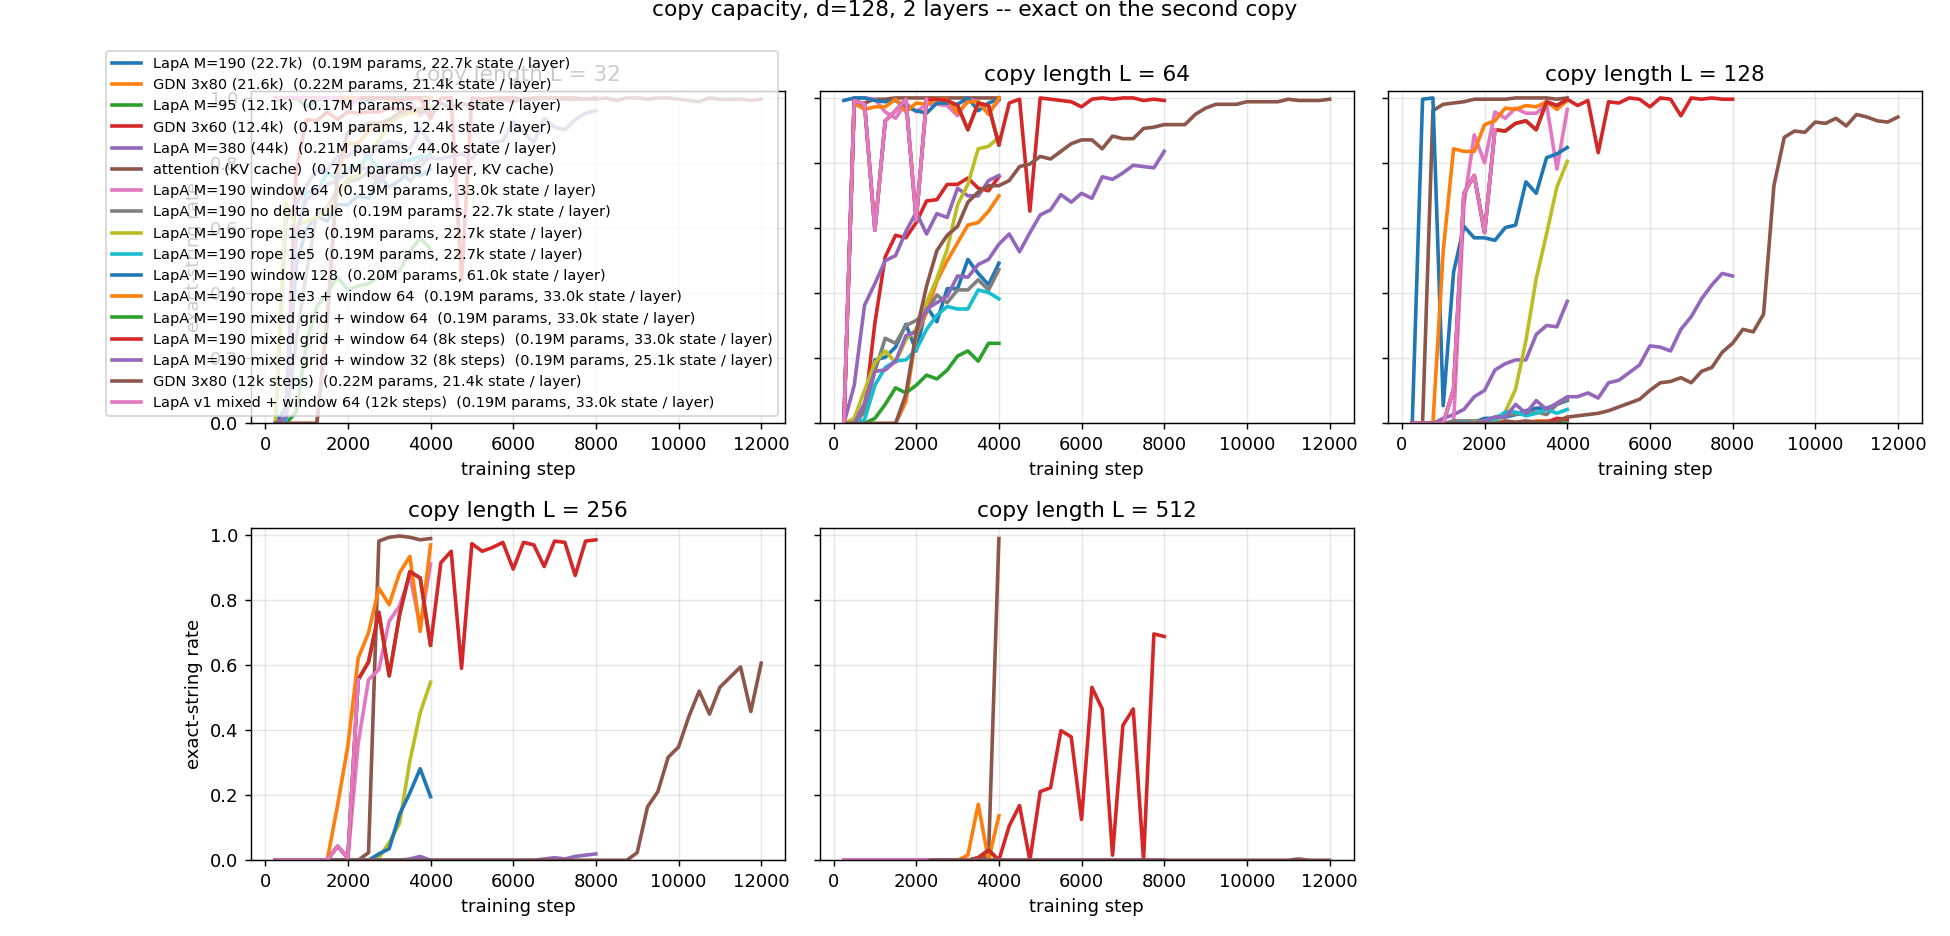
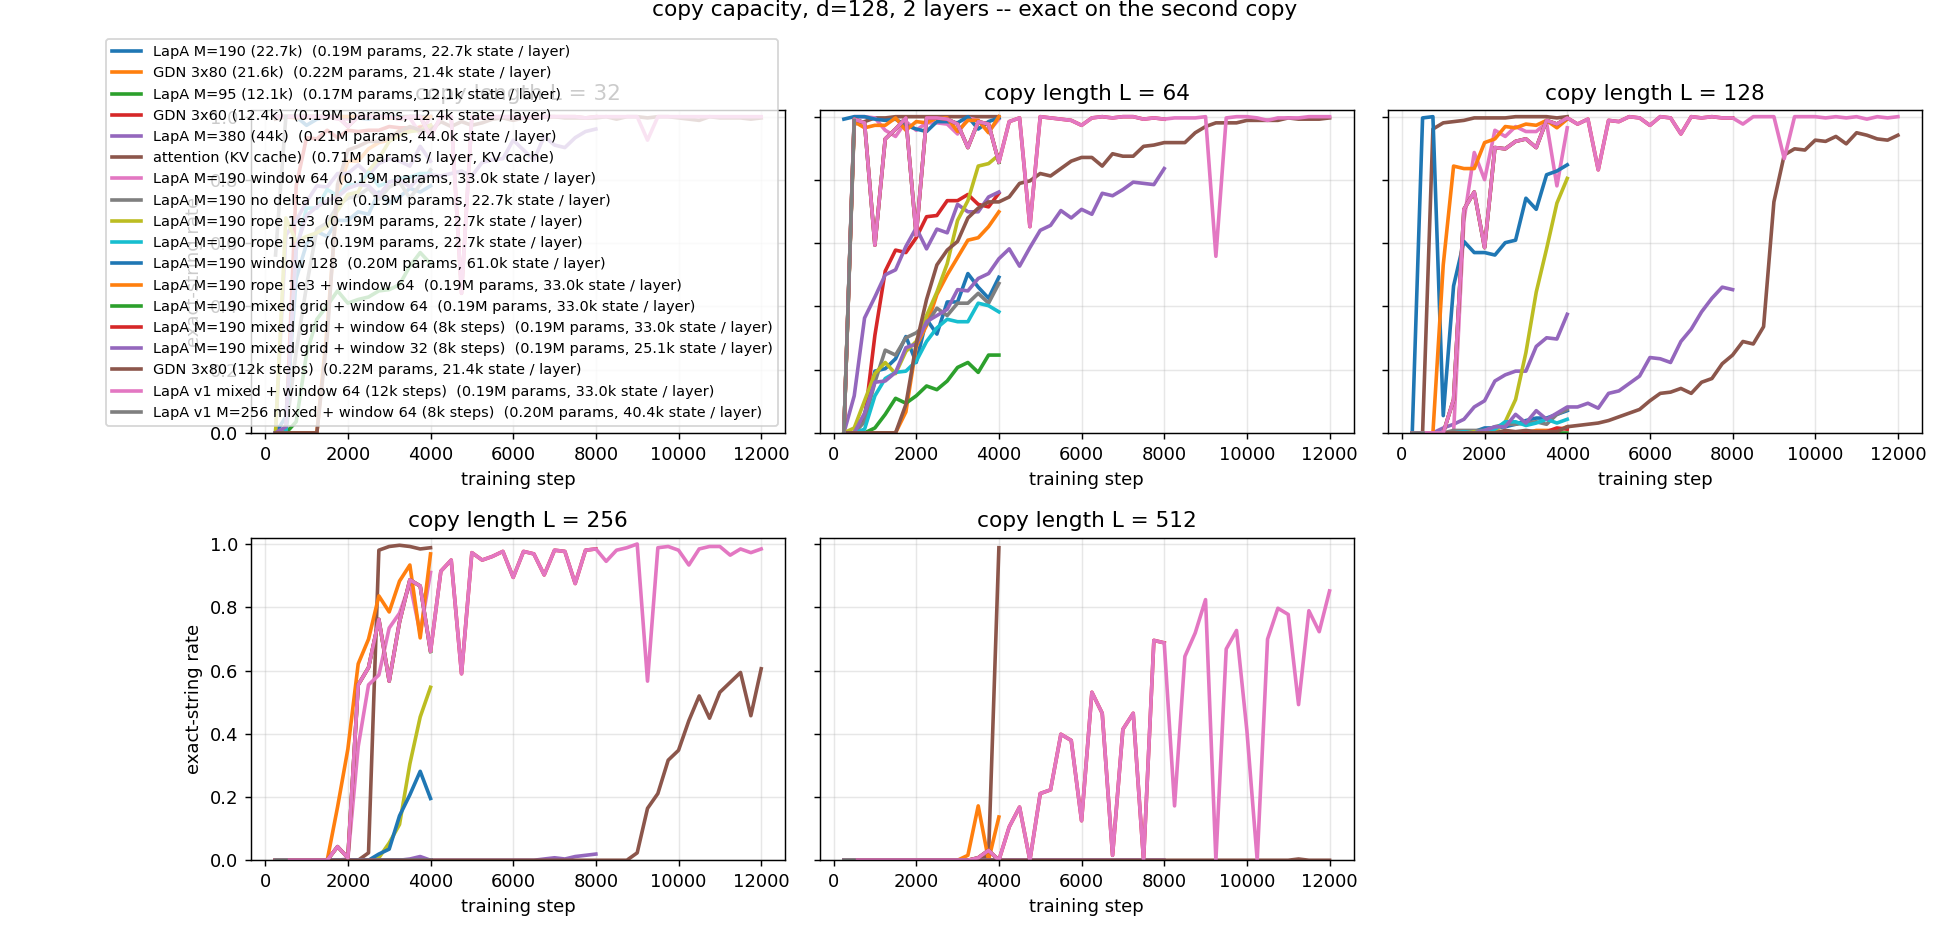
copy at 12k: LapA v1 0.85 exact @512 vs GDN 0

diff --git a/CATCHUP.md b/CATCHUP.md
@@ -600,6 +600,19 @@ still leads at 256 and 512. LapA v1 at 12k queued for the equal-budget row. Less
 Spark protocol: copy curves must be read at equal steps AND to saturation — GDN's
 saturation point is beyond 12k here.
 
+### Equal budget, 12k steps (2026-09-11, 14:50)
+
+| arm, 12000 steps | L32 | L64 | L128 | L256 | L512 |
+|---|---|---|---|---|---|
+| GDN 3×80 (21.4k state) | 1.00 | 1.00 | 0.94 | 0.61 | 0 (0.99 token) |
+| **LapA v1** (33k state) | 1.00 | 1.00 | **1.00** | **0.98** | **0.85** |
+
+Exact-string rates. At the same budget LapA v1 reproduces 85% of 512-token strings
+without error; GDN none. Both are at 0.99–1.00 per token at 512, so the difference is
+entirely in the tail of the per-token error distribution — the exact-string rate is the
+metric that separates a superposition memory with an exact window from a matrix memory
+at this state size.
+
 ### Smoothing the hand-over (2026-09-11, 14:40)
 
 The instability seen in copy has a shape: an exact mechanism that stops dead at lag L−1
